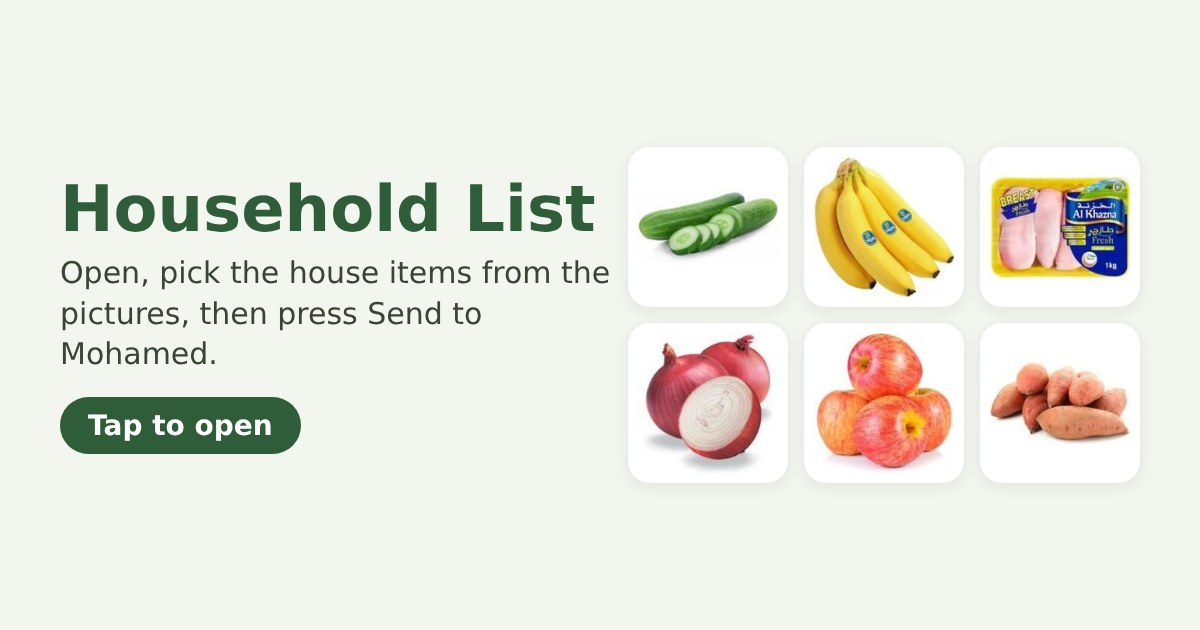
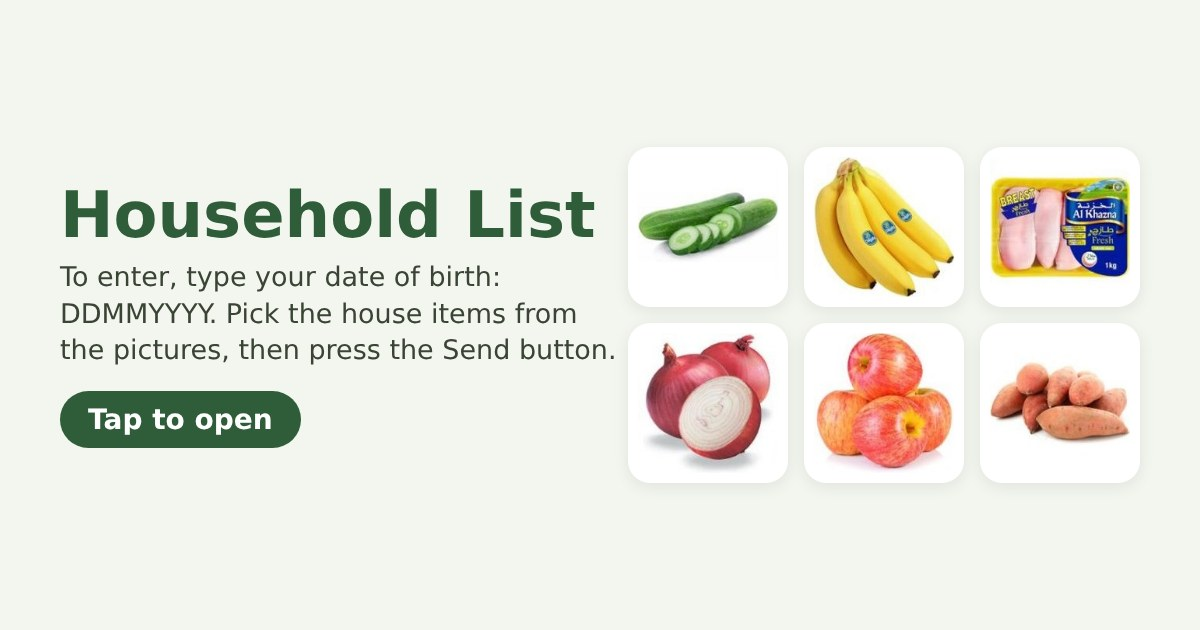
Publish household helper page [skip ci]

diff --git a/helper/index.html b/helper/index.html
@@ -8,13 +8,13 @@
 <meta property="og:type" content="website">
 <meta property="og:site_name" content="Home Kitchen">
 <meta property="og:title" content="Household List">
-<meta property="og:description" content="Open, pick the house items from the pictures, then press Send to Mohamed.">
+<meta property="og:description" content="To enter, type your date of birth like this: DDMMYYYY. Pick the house items from the pictures, then press the Send button.">
 <meta property="og:url" content="https://almaysari.github.io/lunchbox/helper/">
 <meta property="og:image" content="https://almaysari.github.io/lunchbox/helper/og.jpg">
 <meta property="og:image:width" content="1200">
 <meta property="og:image:height" content="630">
 <meta name="twitter:card" content="summary_large_image">
-<meta name="description" content="Open, pick the house items from the pictures, then press Send to Mohamed.">
+<meta name="description" content="To enter, type your date of birth like this: DDMMYYYY. Pick the house items from the pictures, then press the Send button.">
 <link rel="preconnect" href="https://fonts.googleapis.com">
 <link rel="preconnect" href="https://fonts.gstatic.com" crossorigin>
 <link rel="stylesheet" href="https://fonts.googleapis.com/css2?family=Baloo+Bhaijaan+2:wght@500;700;800&family=IBM+Plex+Sans+Arabic:wght@400;500;600&display=swap">
@@ -412,19 +412,19 @@ const S={
  en:{app:'Home Kitchen',hTitle:'Household list',hItems:'Items',hList:'My list',search:'Search',all:'All',add:'Add',remove:'Remove',
   hAdd:'Add to list',hUpd:'Update',hHow:'How much?',hKg:'Kilos',hPcs:'Pieces',hEmpty:'Nothing on your list yet. Pick items from the pictures.',hNote:'Note (optional), e.g. the small one',hSent:'Added to your list',
   hOther:'Something else? Write it here',hLast:'You last sent a list on',hNever:'You have not sent a list yet',hPinT:'Enter your date of birth',hPinS:'Day, month, year: DDMMYYYY',hPinErr:'Not correct, try again',
-  hDone:'Done, send to Mohamed',hDoneT:'Sent. Your list is now empty.',hWa:'Send on WhatsApp',hCopy:'Copy the list',hCopied:'Copied. Paste it to Mohamed on WhatsApp.',hSendHow:'Press the green button. WhatsApp opens with your list ready, then press send.',hClose:'Close',hStart:'Start a new list',
+  hDone:'Done, send the list',hDoneT:'Sent.',hWa:'Send on WhatsApp',hCopy:'Copy the list',hCopied:'Copied. Paste it to Mohamed on WhatsApp.',hSendHow:'Press the green button. WhatsApp opens with your list ready, then press send.',hClose:'Close',hStart:'Start a new list',
   u:{g:'g',kg:'kg',ml:'ml',l:'L',pcs:'pcs',bunch:'bunch',pkt:'pack',oz:'oz'},
   cats:{veg:'Vegetables',fruit:'Fruit',meat:'Chicken and turkey',lambb:'Meat with bone',lambnb:'Meat boneless',fish:'Fish',dairy:'Milk, cheese and eggs',bakery:'Bread',pantry:'Pantry',spices:'Spices',drinks:'Water and drinks',frozen:'Frozen',snacks:'Snacks',cleaning:'Cleaning',laundry:'Laundry',paper:'Tissue and paper',toiletries:'Bathroom',kitchen:'Kitchen supplies',other:'Other'}},
  ar:{app:'مطبخ البيت',hTitle:'أغراض البيت',hItems:'الأغراض',hList:'قائمتي',search:'ابحث',all:'الكل',add:'أضف',remove:'حذف',
   hAdd:'أضف للقائمة',hUpd:'تحديث',hHow:'كم الكمية؟',hKg:'بالكيلو',hPcs:'بالحبة',hEmpty:'قائمتك فاضية. اختاري من الصور.',hNote:'ملاحظة (اختياري)، مثلاً الصغير',hSent:'انضاف لقائمتك',
   hOther:'شي ثاني مو موجود؟ اكتبيه هنا',hLast:'آخر مرة أرسلتي القائمة',hNever:'ما أرسلتي قائمة للحين',hPinT:'أدخلي تاريخ ميلادك',hPinS:'يوم شهر سنة: DDMMYYYY',hPinErr:'غلط، جربي مرة ثانية',
-  hDone:'خلصت، أرسلي لمحمد',hDoneT:'انرسلت. قائمتك صارت فاضية.',hWa:'أرسلي على واتساب',hCopy:'انسخي القائمة',hCopied:'انسخت. الصقيها لمحمد على واتساب.',hSendHow:'اضغطي الزر الأخضر، يفتح واتساب والقائمة جاهزة، بعدين اضغطي إرسال.',hClose:'إغلاق',hStart:'ابدئي قائمة جديدة',
+  hDone:'خلصت، أرسلي القائمة',hDoneT:'انرسلت.',hWa:'أرسلي على واتساب',hCopy:'انسخي القائمة',hCopied:'انسخت. الصقيها لمحمد على واتساب.',hSendHow:'اضغطي الزر الأخضر، يفتح واتساب والقائمة جاهزة، بعدين اضغطي إرسال.',hClose:'إغلاق',hStart:'ابدئي قائمة جديدة',
   u:{g:'غ',kg:'كيلو',ml:'مل',l:'لتر',pcs:'حبة',bunch:'ربطة',pkt:'باكت',oz:'أونصة'},
   cats:{veg:'خضار',fruit:'فواكه',meat:'دجاج وديك رومي',lambb:'لحم بعظم',lambnb:'لحم بدون عظم',fish:'سمك',dairy:'حليب وجبن وبيض',bakery:'خبز',pantry:'المؤونة',spices:'البهارات',drinks:'ماي ومشروبات',frozen:'مجمدات',snacks:'سناكات',cleaning:'التنظيف',laundry:'الغسيل',paper:'المناديل والورق',toiletries:'الحمام',kitchen:'لوازم المطبخ',other:'أخرى'}},
  tl:{app:'Home Kitchen',hTitle:'Listahan ng bahay',hItems:'Mga gamit',hList:'Listahan ko',search:'Hanapin',all:'Lahat',add:'Idagdag',remove:'Alisin',
   hAdd:'Idagdag sa listahan',hUpd:'I-update',hHow:'Gaano karami?',hKg:'Kilo',hPcs:'Piraso',hEmpty:'Wala pa sa listahan mo. Pumili mula sa mga litrato.',hNote:'Paalala (opsyonal), hal. ang maliit',hSent:'Naidagdag sa listahan mo',
   hOther:'May iba pa? Isulat dito',hLast:'Huling ipinadala mo ang listahan noong',hNever:'Wala ka pang naipadalang listahan',hPinT:'Ilagay ang iyong kaarawan',hPinS:'Araw, buwan, taon: DDMMYYYY',hPinErr:'Mali, subukan ulit',
-  hDone:'Tapos na, ipadala kay Mohamed',hDoneT:'Naipadala. Walang laman na ang listahan mo.',hWa:'Ipadala sa WhatsApp',hCopy:'Kopyahin ang listahan',hCopied:'Nakopya. I-paste kay Mohamed sa WhatsApp.',hSendHow:'Pindutin ang berdeng button. Bubukas ang WhatsApp na may listahan mo, tapos pindutin ang send.',hClose:'Isara',hStart:'Magsimula ng bagong listahan',
+  hDone:'Tapos na, ipadala ang listahan',hDoneT:'Naipadala.',hWa:'Ipadala sa WhatsApp',hCopy:'Kopyahin ang listahan',hCopied:'Nakopya. I-paste kay Mohamed sa WhatsApp.',hSendHow:'Pindutin ang berdeng button. Bubukas ang WhatsApp na may listahan mo, tapos pindutin ang send.',hClose:'Isara',hStart:'Magsimula ng bagong listahan',
   u:{g:'g',kg:'kg',ml:'ml',l:'L',pcs:'piraso',bunch:'tali',pkt:'pakete',oz:'oz'},
   cats:{veg:'Gulay',fruit:'Prutas',meat:'Manok at pabo',lambb:'Karne na may buto',lambnb:'Karne na walang buto',fish:'Isda',dairy:'Gatas, keso at itlog',bakery:'Tinapay',pantry:'Pantry',spices:'Pampalasa',drinks:'Tubig at inumin',frozen:'Frozen',snacks:'Meryenda',cleaning:'Panlinis',laundry:'Labahan',paper:'Tissue at papel',toiletries:'Banyo',kitchen:'Gamit sa kusina',other:'Iba pa'}}
 };
